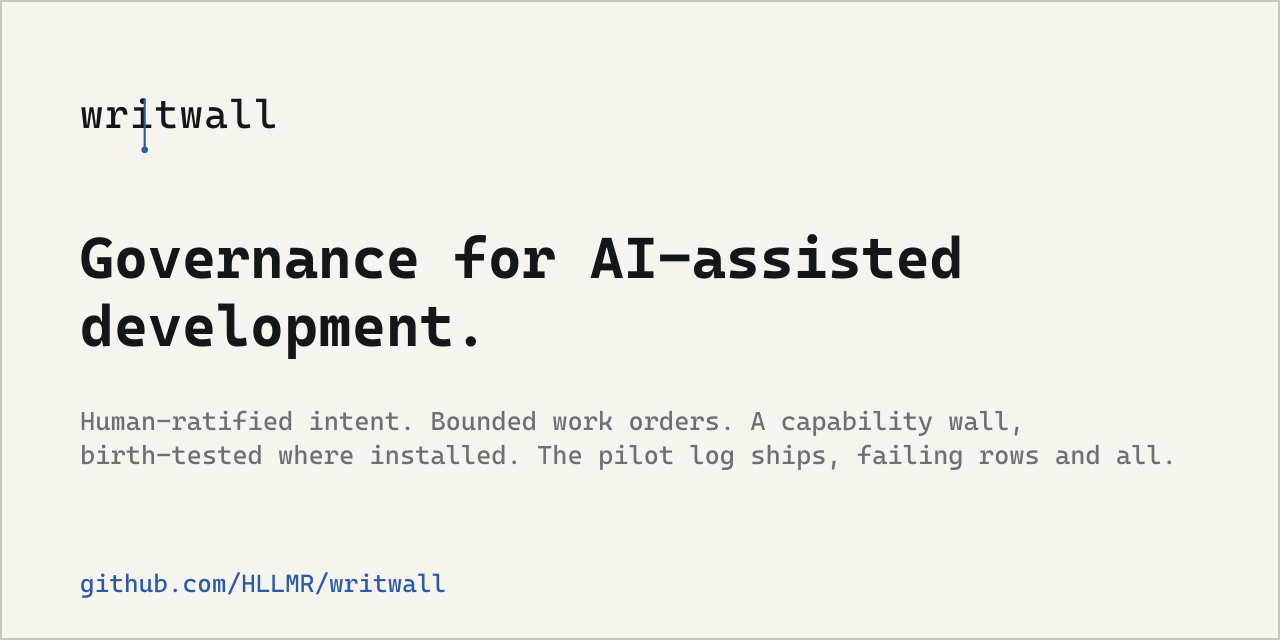
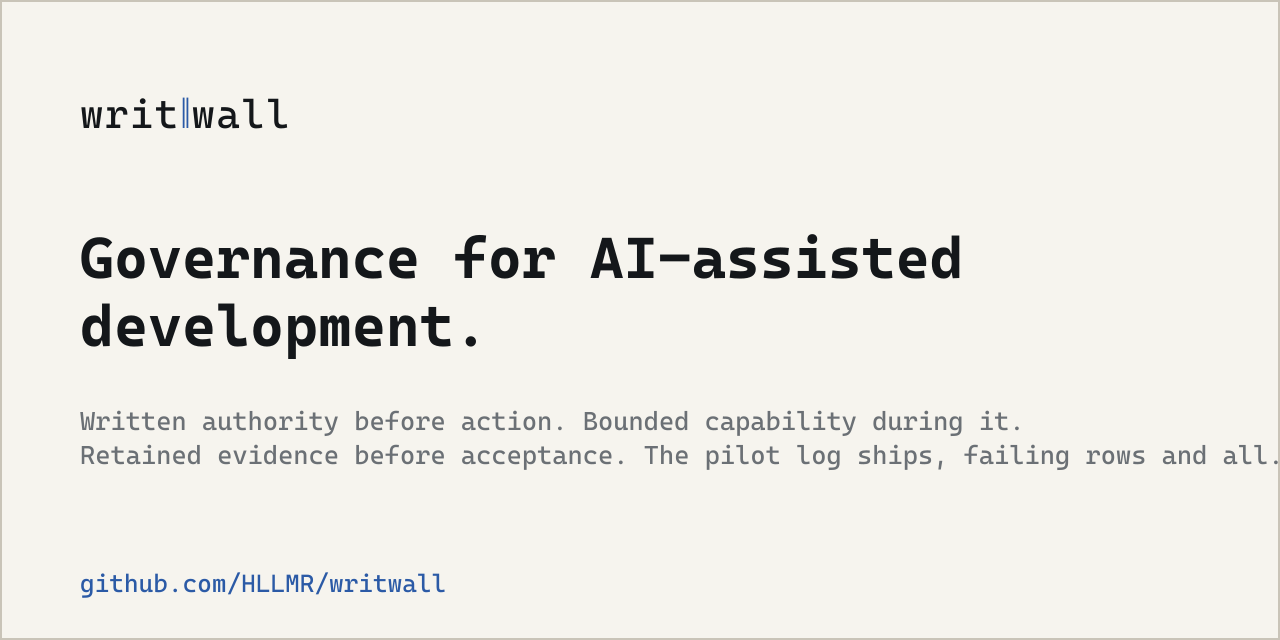
Apply WO-PL-038 wall glyph projection

Changed region(s): [[0.0625, 0.625, 1.0, 0.75], [0.125, 0.1562, 0.2188, 0.2188]]

diff --git a/tests/test_distribution.py b/tests/test_distribution.py
@@ -1033,13 +1033,39 @@ class PublicFrontDoorTests(unittest.TestCase):
         self.assertIn('alt="Writwall: document-governed AI work', readme)
         self.assertIn('width="720"', readme)
         self.assertIn('viewBox="0 0 1280 320"', banner_svg)
-        self.assertIn("Document-governed AI work: scoped grants, denial evidence, human acceptance.", banner_svg)
+        self.assertIn(
+            "Document-governed AI work: written authority, bounded capability, retained evidence.",
+            banner_svg,
+        )
+        self.assertIn(
+            '<line x1="248.36" y1="126.36" x2="248.36" y2="175.00"',
+            banner_svg,
+        )
+        self.assertIn(
+            '<line x1="254.44" y1="126.36" x2="254.44" y2="175.00"',
+            banner_svg,
+        )
+        self.assertNotIn("<circle", banner_svg)
         self.assertNotIn("A wall nobody has watched", banner_svg)
         self.assertIn('viewBox="0 0 1280 640"', social_svg)
         self.assertIn("Governance for AI-assisted", social_svg)
-        self.assertIn("A capability wall,", social_svg)
-        self.assertIn("birth-tested where installed.", social_svg)
-        self.assertNotIn("Capability walls", social_svg)
+        self.assertIn(
+            "Written authority before action. Bounded capability during it.",
+            social_svg,
+        )
+        self.assertIn(
+            "Retained evidence before acceptance. The pilot log ships, failing rows and all.",
+            social_svg,
+        )
+        self.assertIn(
+            '<line x1="183.63" y1="97.60" x2="183.63" y2="128.00"',
+            social_svg,
+        )
+        self.assertIn(
+            '<line x1="187.43" y1="97.60" x2="187.43" y2="128.00"',
+            social_svg,
+        )
+        self.assertNotIn("<circle", social_svg)
         self.assertLess(readme.index("<img"), readme.index(
             '<h1 align="center">Writwall</h1>'))
         for chrome in (

diff --git a/governance/STATE.md b/governance/STATE.md
@@ -6,7 +6,8 @@ As-is, not should-be. Ratified intent lives in `governance/PLAN.md`; this file
 records the repository state observed after the Plumbline 0.8 public release,
 accepted WO-PL-034 public-front-door polish, accepted WO-PL-035 onboarding
 repair, accepted WO-PL-036 name-clearance and replacement selection, and
-accepted WO-PL-037 controlled migration to the current **Writwall** identity.
+accepted WO-PL-037 controlled migration to the current **Writwall** identity,
+and accepted WO-PL-038 wall-glyph identity correction.
 
 **Derived:** 2026-08-28 from the ten accepted pilot records, the Doctrine 9.3.1
 fresh-agent evaluation, ratified DR-002 and project-migration DR-003, and
@@ -18,8 +19,9 @@ WO-PL-018 through WO-PL-023 complete; WO-PL-024 void before implementation;
 WO-PL-025 complete and the project operatively bound to Doctrine 0.8;
 WO-PL-026 complete and RFI-22 closed; WO-PL-027 through WO-PL-033 complete;
 Plumbline 0.8 publicly released from a one-commit clean-history projection;
-WO-PL-034 through WO-PL-037 complete; **Writwall** selected and implemented as
-the current identity; external cutover remains separately controlled.
+WO-PL-034 through WO-PL-038 complete; **Writwall** selected and implemented as
+the current identity with the two-line wall glyph; WO-PL-039 queued and
+inactive.
 The hash of the commit containing this file is intentionally recorded only
 externally.
 
@@ -70,8 +72,9 @@ externally.
 | WO-PL-035 | **COMPLETE**, accepted 2026-08-28; post-publication human-onboarding and public-contribution repair, not counted. A human-first start page, coordinator prompts, safe bootstrap/recovery rules, issue/PR workflow, and deterministic cross-document checks are complete. The first fresh novice review returned six material findings; all were corrected and a different fresh Reviewer returned ACCEPT. Active minutes **NOT REPORTED**; records retained in `governance/history/` |
 | WO-PL-036 | **COMPLETE**, accepted 2026-08-28; post-publication inception name-clearance evidence and replacement selection, not counted. Public collector/checker, worked incident, four canonical ledgers, and release-disposition pins are complete. Owner rejected Plumbline, Grantcord, and Writcord and accepted **Writwall** after named-human web/common-law and USPTO review. Windows passed 638 tests, native Ubuntu passed 74 focused/integration tests, two 112-file projections reproduced byte-for-byte, and the fifth fresh Reviewer returned ACCEPT. Active minutes **NOT REPORTED**; records retained in `governance/history/`; identity migration remains unstarted |
 | WO-PL-037 | **COMPLETE**, accepted 2026-08-29; controlled identity migration from Plumbline to **Writwall**, not counted. Current product surfaces, adoption skill, code constants, repository coordinates, and visual assets are migrated; historical Plumbline facts remain pinned by `identity/legacy-references.json`. Windows and Ubuntu governed-source/candidate suites passed; two private-pattern candidates were byte-identical; live-wall canary record 310 is valid; fresh Sonnet review returned **ACCEPT WITH NON-BLOCKING POLISH**. Owner active minutes **NOT REPORTED**. The closeout records one unauthorized read-only history traversal with no implementation impact. Records retained in `governance/history/`; no push, public-repository rename, release, tag, `dist/` replacement, website edit, or external launch action occurred |
+| WO-PL-038 | **COMPLETE**, accepted 2026-08-29; post-migration wall-glyph identity correction, not counted. The Owner rejected the inherited plumb-line/bob device and accepted the two-line wall at the `writ|wall` boundary. Focused and complete tests, identity, licensing, dispatch, and whitespace checks passed; fresh review returned **ACCEPT** after one report-only transient-count correction. Active minutes **NOT REPORTED**. Public issue #2 projection/PR update authorized; WO-PL-039 remains queued and inactive |
 | Pilot progress | **10 of 10 counted work orders complete; fresh-agent evaluation accepted with calibrations and disposed by DR-002** |
-| Post-pilot sequence | **WO-PL-017 through WO-PL-023 COMPLETE**; WO-PL-024 **VOID BEFORE IMPLEMENTATION**; WO-PL-025 through WO-PL-037 **COMPLETE**; Plumbline 0.8 is the historical public release; **Writwall migration accepted**; external cutover pending separate authorization |
+| Post-pilot sequence | **WO-PL-017 through WO-PL-023 COMPLETE**; WO-PL-024 **VOID BEFORE IMPLEMENTATION**; WO-PL-025 through WO-PL-038 **COMPLETE**; Plumbline 0.8 is the historical public release; **Writwall migration and wall-glyph correction accepted**; WO-PL-039 queued and inactive |
 | Bootstrap history | Eleven completed work orders retained as uncounted pre-adoption evidence under `archive/pre-adoption-bootstrap/` |
 
 ### Verification accepted at WO-PL-016 closeout

diff --git a/governance/PLAN.md b/governance/PLAN.md
@@ -351,3 +351,36 @@ The current public repository and release remain available as evidence, but no
 new promotion, Show HN submission, replacement release, tag, or mass rebrand is
 authorized before WO-PL-036 produces and the Owner ratifies the replacement
 disposition. Public issue #2 is the durable public defect record.
+
+## 15. Owner-ratified first-use and identity follow-through — 2026-08-29
+
+The Owner accepted **Writwall** as the canonical identity, directed retirement
+of the inherited plumb-line device in favor of the already-developed two-line
+wall glyph, and confirmed that an IDE coding agent is a valid day-zero entry
+point before the wall is registered. The first public adoption showed that the
+role architecture exists but the invocation contract still fails when the wall
+is installed before its bootstrap bundle and local handoff are available.
+
+1. **WO-PL-038 — Wall-glyph identity correction.** Replace the current-use
+   plumb-line device in public README/social assets with the two-line wall at
+   the `writ|wall` boundary. Preserve explicit historical evidence; do not
+   rewrite accepted records. Verify generated raster siblings, projection and
+   license gates, and finish public issue #2 through the ordinary projection
+   and pull-request path after acceptance.
+2. **WO-PL-039 — Day-zero invocation and bootstrap handoff.** Make the
+   IDE-first path executable from a clean repository: give the human one exact
+   kickoff prompt; make the complete bootstrap bundle and a project-local
+   handoff readable before wall registration; distinguish the temporary
+   bootstrap coordinator from the post-adoption walled Operator; document the
+   external infrastructure-operator boundary; and prove the path with a fresh
+   clean-context walkthrough. Public issue #1 remains the durable defect
+   record.
+
+The Owner remains the source of intent and acceptance. The Owner-Agent may
+draft, coordinate, record ratified decisions, and perform authorized lifecycle
+mechanics. An IDE agent may serve as the bootstrap coordinator before
+registration and later as the walled Operator, but those are sequential roles,
+not simultaneous authority. An infrastructure agent that only changes DNS,
+containers, hosts, or proxies is outside the repository's capability wall; it
+receives a bounded external-operations packet and returns evidence. If it edits
+repository bytes, it enters the repository as an Operator under a work order.

diff --git a/governance/LOG.md b/governance/LOG.md
@@ -517,7 +517,7 @@ that attempted to relink the remote while WO-PL-033 was active. The wall denied
 two shell channels, one broad read traversal, and one out-of-grant Edit before
 mutation. The original 305 records remain a line-for-line exact prefix; no
 denied mutation succeeded. The authorized coordinator later relinked `origin`
-to the renamed private `[private governed-source identifier omitted]` remote.
+to the renamed private `plumbline-archive` remote.
 
 The ignored reviewer ZIP, private screening input, both candidates and
 archives, WSL mount/keeper, and temporary logs were deleted and verified

diff --git a/docs/identity-migration.md b/docs/identity-migration.md
@@ -56,3 +56,10 @@ has passed the complete release gates.
 No external surface is changed merely because this file exists. Credentials,
 private patterns, private archives, and unrelated project material never enter
 the public candidate or this record.
+
+## Current visual identity
+
+The current Writwall mark is a two-line wall placed at the `writ|wall`
+boundary. It replaces the line-and-bob device inherited during the emergency
+name migration. The former device remains legitimate historical evidence in
+accepted records and prior-release screenshots; it is not current brand art.

diff --git a/PROJECTION-PROVENANCE.md b/PROJECTION-PROVENANCE.md
@@ -5,8 +5,8 @@ Legacy commit identifiers in projected records refer to that private
 source and are intentionally not resolvable from fresh public history.
 No private remote URL is recorded here.
 
-- Source commit: `05ea9bba3491dc045758026d29ed50f610af3bdb`
-- Source commit time: `2026-08-29T09:21:36-05:00`
+- Source commit: `61a3e8624410e27678325f740763f742bfca15b5`
+- Source commit time: `2026-08-29T13:50:28-05:00`
[1 lines of base64/hex data omitted]
 
 ## Legacy identifier inventory
